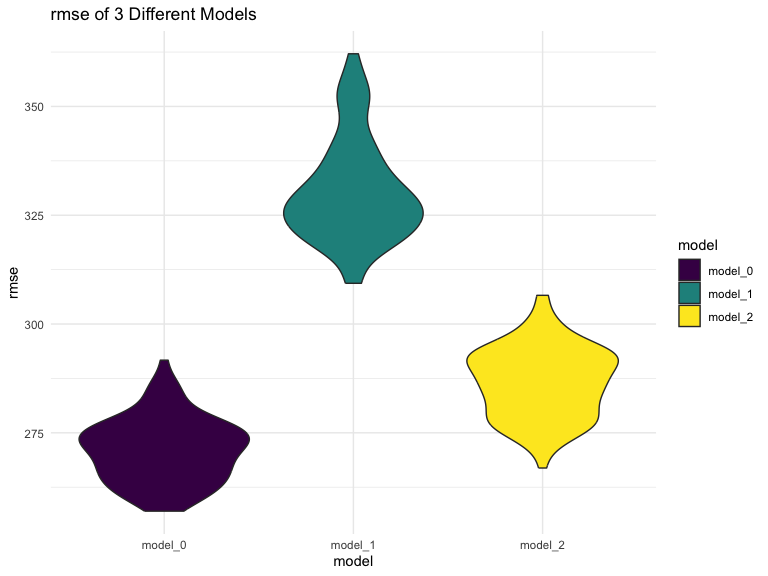
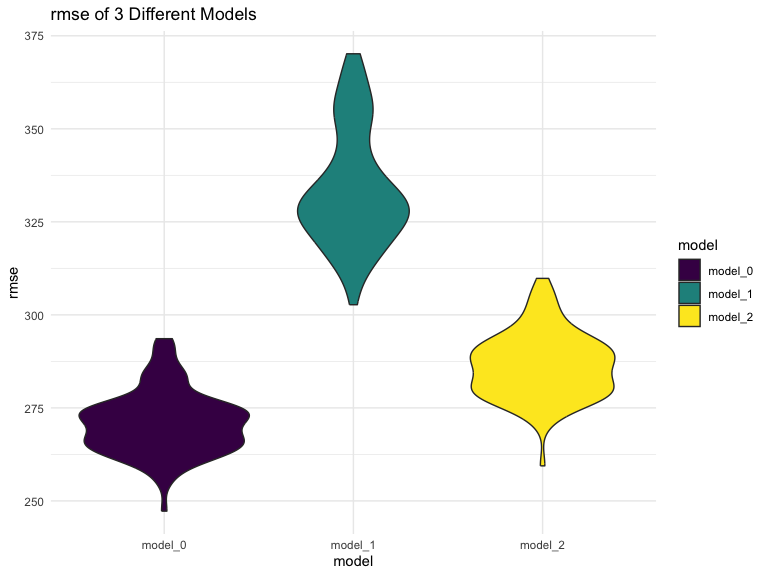
update according to guidelines in class

diff --git a/p8105_hw6_ml5018.md b/p8105_hw6_ml5018.md
@@ -363,7 +363,11 @@ log_b1b2_df |>
     ## # A tibble: 1 × 1
     ##   log_b1b2_estimate
     ##               <dbl>
-    ## 1             -6.10
+    ## 1             -6.06
+
+For log(β̂1∗β2), there are 3391 NAs produced during calculation due to
+the negative value of the base number, and the statistics of the
+parameter is computed based on the remaining non-NA values.
 
 ## plots
 
@@ -410,7 +414,7 @@ r_squared_df |>
 
 | r2_CI_lower | r2_CI_upper |
 |------------:|------------:|
-|   0.8880187 |   0.9403638 |
+|   0.8888343 |   0.9399581 |
 
 ``` r
 log_b1b2_df |>
@@ -423,7 +427,7 @@ log_b1b2_df |>
 
 | log_b1b2_CI_lower | log_b1b2_CI_upper |
 |------------------:|------------------:|
-|         -9.088211 |         -4.585832 |
+|          -9.06156 |          -4.52125 |
 
 # Problem 3
 
@@ -600,7 +604,7 @@ comparison_df |>
 
 | mean_rmse_0 | mean_rmse_1 | mean_rmse_2 |
 |------------:|------------:|------------:|
-|    271.0414 |     330.476 |    286.6458 |
+|    270.9677 |    333.7304 |     286.428 |
 
 ``` r
 comparison_df |>
